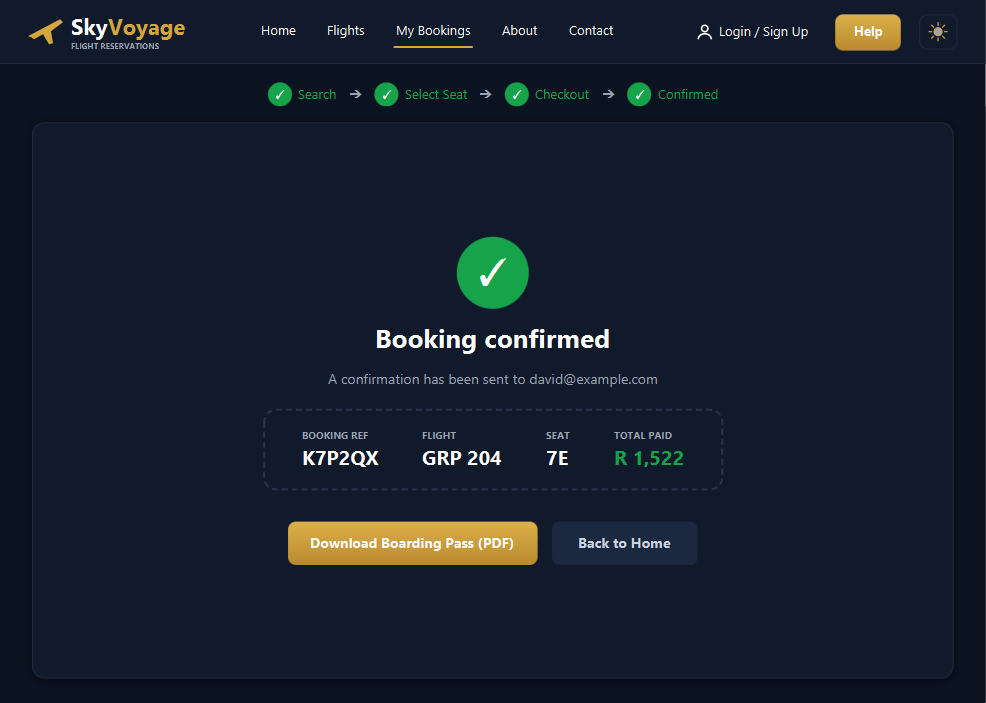
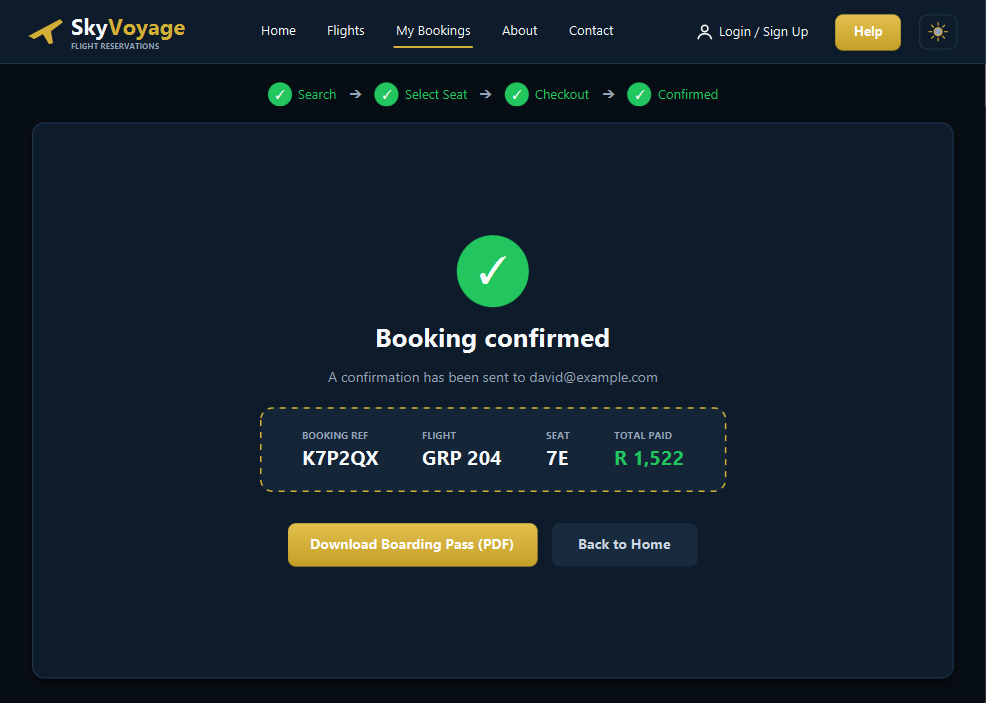
feat(desktop): elevate 06 confirmation screen with gold voucher and motion

diff --git a/desktop/src/main/resources/com/group2/flightres/css/skyvoyage.css b/desktop/src/main/resources/com/group2/flightres/css/skyvoyage.css
@@ -1144,12 +1144,13 @@
 }
 
 .confirmation-ref-box {
-    -fx-border-color: -sv-field-border;
-    -fx-border-width: 2px;
-    -fx-border-style: segments(6, 4);
+    -fx-border-color: -sv-gold-primary;
+    -fx-border-width: 1.5px;
+    -fx-border-style: segments(6, 6);
     -fx-border-radius: 12px;
+    -fx-background-color: -sv-surface-elevated;
     -fx-background-radius: 12px;
-    -fx-padding: 18px 36px;
+    -fx-padding: 20px 40px;
     -fx-alignment: center;
 }
 

diff --git a/desktop/src/main/java/com/group2/flightres/controller/BookingConfirmationController.java b/desktop/src/main/java/com/group2/flightres/controller/BookingConfirmationController.java
@@ -38,6 +38,8 @@ public class BookingConfirmationController implements WizardStepController {
     @FXML
     public void initialize() {
         populateData();
+        com.group2.flightres.util.Motion.attachHoverLift(downloadPdfButton);
+        com.group2.flightres.util.Motion.attachHoverLift(backToHomeButton);
     }
 
     private void populateData() {
